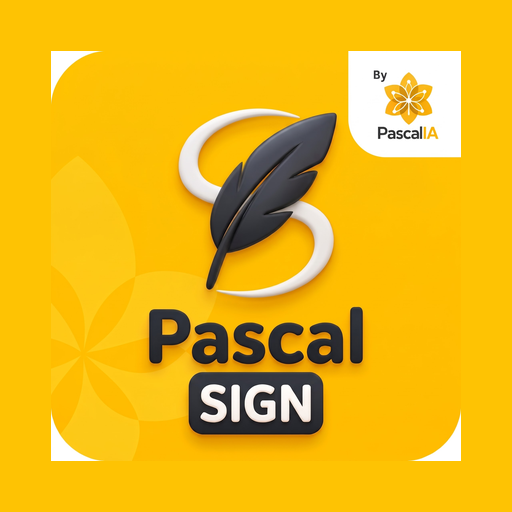
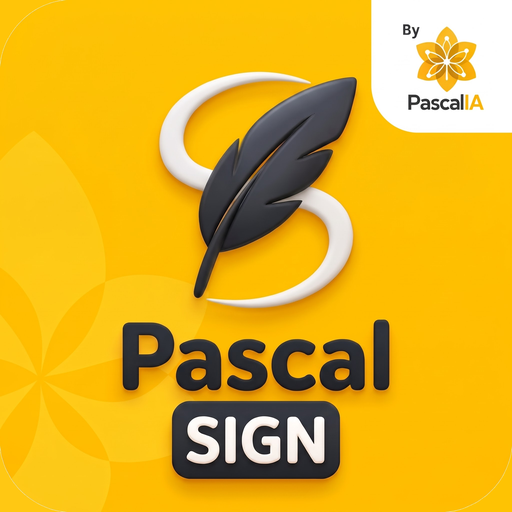
Pascal Sign: logotipo original a sangre en todos los íconos (#30)
Claude-Session: https://claude.ai/code/session_015DrRr961xM1p7fCC2HnLG9

diff --git a/index.html b/index.html
@@ -250,7 +250,7 @@
           <li><a class="item" href="/mesaviva/"><span class="item-ico"><svg class="i" aria-hidden="true"><use href="#i-store"/></svg></span><span class="item-body"><strong>MesaViva · restaurantes y cafés</strong><span>Tus clientes piden, dividen la cuenta al peso y pagan desde el celular, y tu caja lo ve en el mismo segundo. Con facturación electrónica DIAN.</span></span><svg class="i item-arrow" aria-hidden="true"><use href="#i-arrow"/></svg></a></li>
           <li><a class="item" href="/fanatikos/"><span class="item-ico"><svg class="i" aria-hidden="true"><use href="#i-target"/></svg></span><span class="item-body"><strong>Fanátikos · campeonatos de fútbol</strong><span>Tabla en vivo, planilla del árbitro en el celular, actas en PDF y afiches para redes con escudos y patrocinadores, para campeonatos de fútbol aficionado.</span></span><svg class="i item-arrow" aria-hidden="true"><use href="#i-arrow"/></svg></a></li>
           <li><a class="item" href="/PascalPDF_Studio/"><span class="item-ico item-ico-img"><img src="/PascalPDF_Studio/img/mark-96.png" width="44" height="44" alt="" loading="lazy" decoding="async"></span><span class="item-body"><strong>PascalPDF Studio · editar y firmar PDF</strong><span>Abre tu PDF, corrige el texto, firma a mano o con imagen, añade sellos y notas, y descárgalo listo. Gratis y sin instalar nada: todo pasa en tu navegador.</span></span><svg class="i item-arrow" aria-hidden="true"><use href="#i-arrow"/></svg></a></li>
-          <li><a class="item" href="/PascalSign/"><span class="item-ico item-ico-img"><img src="/PascalSign/mark-192.png" width="44" height="44" alt="" loading="lazy" decoding="async"></span><span class="item-body"><strong>Pascal Sign · firma desde el celular</strong><span>La versión ligera de PascalPDF, solo para firmar: abre el PDF desde WhatsApp o tus archivos, firma con el dedo y compártelo. Se instala como app en Android y iPhone, y funciona sin conexión.</span></span><svg class="i item-arrow" aria-hidden="true"><use href="#i-arrow"/></svg></a></li>
+          <li><a class="item" href="/PascalSign/"><span class="item-ico item-ico-img"><img src="/PascalSign/icon-192.png" width="44" height="44" alt="" loading="lazy" decoding="async"></span><span class="item-body"><strong>Pascal Sign · firma desde el celular</strong><span>La versión ligera de PascalPDF, solo para firmar: abre el PDF desde WhatsApp o tus archivos, firma con el dedo y compártelo. Se instala como app en Android y iPhone, y funciona sin conexión.</span></span><svg class="i item-arrow" aria-hidden="true"><use href="#i-arrow"/></svg></a></li>
         </ul>
       </div>
 

diff --git a/PascalPDF_Studio/index.html b/PascalPDF_Studio/index.html
@@ -651,7 +651,7 @@
                 </div>
 
                 <a href="/PascalSign/" target="_blank" rel="noopener" class="flex items-center gap-3 p-3 rounded-xl bg-zinc-950 border border-zinc-800 hover:border-amber-400">
-                    <img src="/PascalSign/mark-192.png" alt="" width="36" height="36" class="rounded-lg">
+                    <img src="/PascalSign/icon-192.png" alt="" width="36" height="36" class="rounded-lg">
                     <span class="text-[11px] text-zinc-300 leading-relaxed"><span class="block text-xs font-semibold text-white">¿Firmas desde el celular? Usa Pascal Sign</span>Se instala como app, recibe el PDF desde WhatsApp y usa tus mismas firmas guardadas.</span>
                 </a>
 

diff --git a/PascalSign/sw.js b/PascalSign/sw.js
@@ -1,8 +1,8 @@
 // Pascal Sign: funciona sin conexión y recibe PDF compartidos desde otras apps (Android).
-const VERSION = 'pascalsign-v4';
+const VERSION = 'pascalsign-v5';
 const COMPARTIDO = 'pascalsign-compartido';
 const BASE = [
-  '/PascalSign/', '/PascalSign/manifest.webmanifest', '/PascalSign/icon-192.png', '/PascalSign/mark-192.png', '/PascalSign/icon-512.png',
+  '/PascalSign/', '/PascalSign/manifest.webmanifest', '/PascalSign/icon-192.png', '/PascalSign/icon-512.png',
   '/PascalSign/apple-touch-icon.png', '/PascalSign/favicon-64.png',
   '/PascalPDF_Studio/config.js', '/PascalPDF_Studio/sello.js', '/PascalPDF_Studio/cuenta.js',
   'https://cdnjs.cloudflare.com/ajax/libs/pdf.js/3.11.174/pdf.min.js',

diff --git a/PascalSign/index.html b/PascalSign/index.html
@@ -148,7 +148,7 @@
 <!-- ==================== INICIO ==================== -->
 <section id="inicio">
     <div class="marca">
-        <img src="/PascalSign/mark-192.png" alt="" width="44" height="44">
+        <img src="/PascalSign/icon-192.png" alt="" width="44" height="44">
         <div><b>Pascal Sign</b><small>de PascalIA</small></div>
         <button class="btn btn-ghost" id="btn-cuenta" style="margin-left:auto;min-height:40px;padding:8px 16px;font-size:14px"><span data-pascal-cuenta>Entrar</span></button>
     </div>
